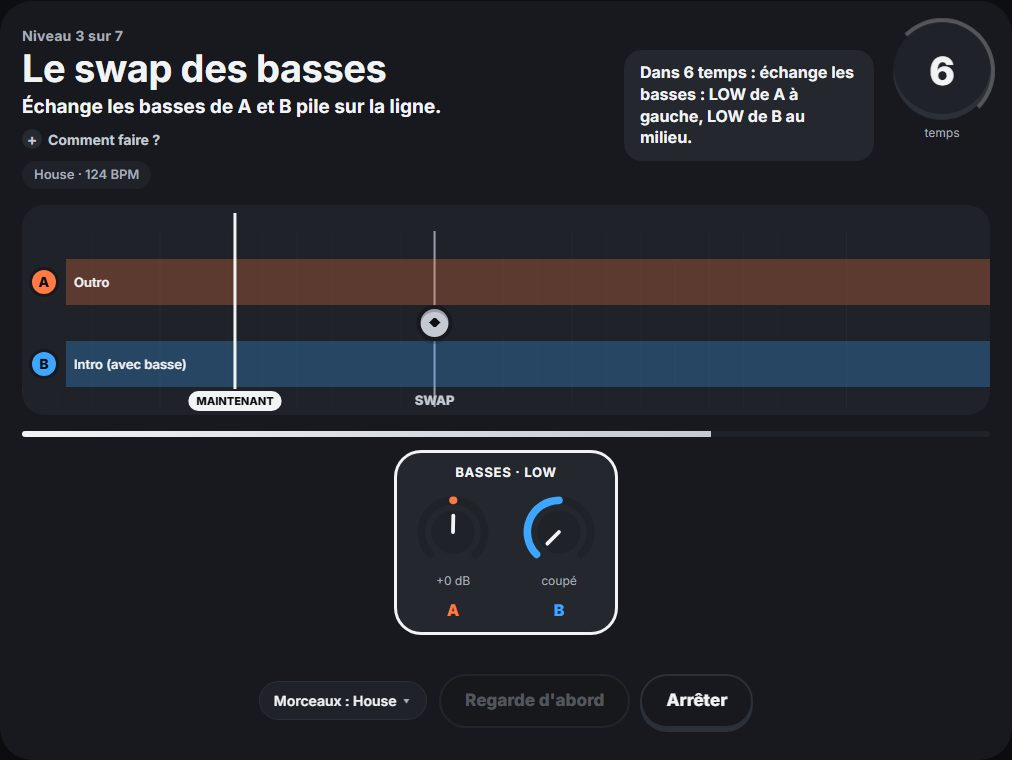
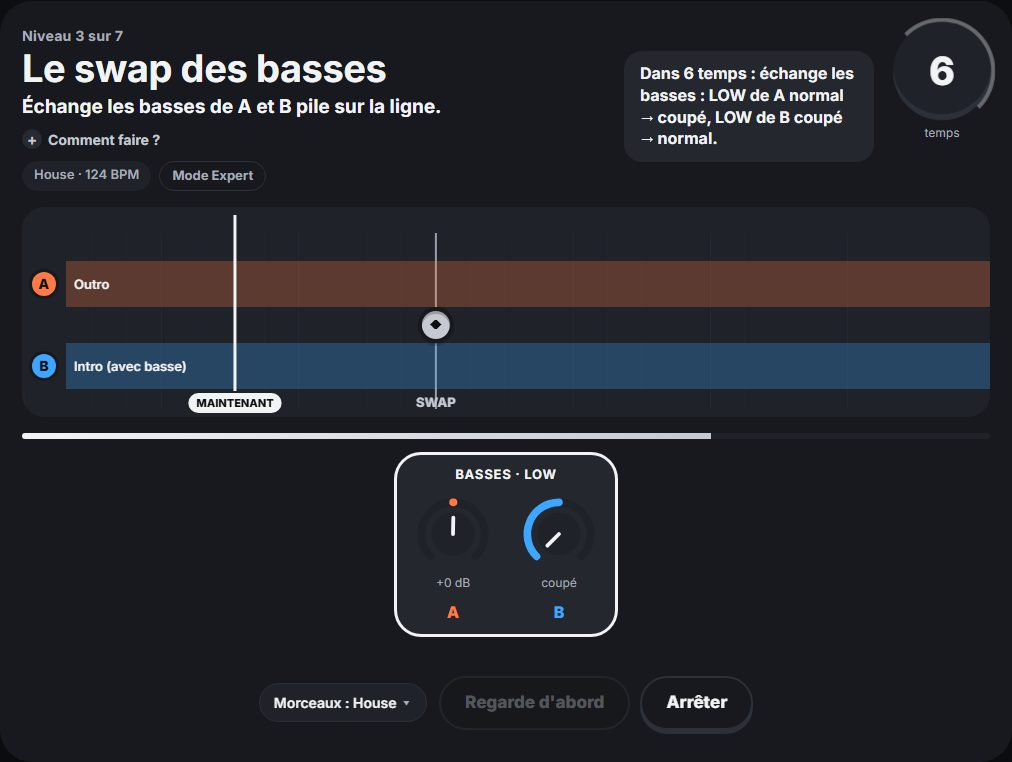
Nouveau nom : DJingo ; Mode Expert sans repère même avant de jouer
Le site s'appelle maintenant DJingo partout où on le voit (pages, guide, rapport des testeurs,
présentation, fiche des testeurs). Les réglages et la progression enregistrés ne changent pas.
Mode Expert : plus de repère « LANCE B » sur la piste avant de jouer, ligne du record simplifiée.

diff --git a/presentation.html b/presentation.html
@@ -3,9 +3,9 @@
 <head>
 <meta charset="utf-8">
 <meta name="viewport" content="width=device-width, initial-scale=1, viewport-fit=cover">
-<title>Coach DJ · Apprends à mixer sur ta DDJ-FLX4</title>
-<meta name="description" content="Tu as une DDJ-FLX4 et tu n'y connais rien ? Coach DJ t'apprend les transitions geste par geste : le site écoute ta table et te note au temps près.">
-<meta property="og:title" content="Coach DJ · Apprends à mixer sur ta DDJ-FLX4">
+<title>DJingo · Apprends à mixer sur ta DDJ-FLX4</title>
+<meta name="description" content="Tu as une DDJ-FLX4 et tu n'y connais rien ? DJingo t'apprend les transitions geste par geste : le site écoute ta table et te note au temps près.">
+<meta property="og:title" content="DJingo · Apprends à mixer sur ta DDJ-FLX4">
 <meta property="og:description" content="Le site écoute ta table et te note au temps près. En deux semaines, tes premières vraies transitions propres.">
 <meta property="og:image" content="https://coach-bass-swap.vercel.app/img/apprendre.jpg">
 <meta property="og:type" content="website">
@@ -18,7 +18,7 @@
 <body class="pres">
 <div class="wrap">
   <header class="top">
-    <a class="brand" href="presentation.html"><span class="disc" aria-hidden="true"></span><div><div class="brand-name">Coach DJ</div><div class="brand-sub">Les transitions, un geste à la fois</div></div></a>
+    <a class="brand" href="presentation.html"><span class="disc" aria-hidden="true"></span><div><div class="brand-name">DJingo</div><div class="brand-sub">Les transitions, un geste à la fois</div></div></a>
     <a class="ghost" href="index.html">Ouvrir le site</a>
   </header>
 
@@ -77,7 +77,7 @@
       <details><summary>C'est gratuit ?</summary><p>Oui, pendant la phase de test.</p></details>
       <details><summary>Faut-il créer un compte ?</summary><p>Non. Ta progression reste dans ton navigateur, sur ton ordinateur : elle n'est envoyée nulle part.</p></details>
       <details><summary>Avec quelle musique ?</summary><p>Les niveaux utilisent des morceaux fabriqués par le site, faits pour s'enchaîner. Ensuite, « Passer au vrai » te fait travailler avec ta propre musique dans rekordbox.</p></details>
-      <details><summary>Ça remplace rekordbox ?</summary><p>Non. Coach DJ t'apprend les gestes ; rekordbox reste le logiciel avec lequel tu mixes pour de vrai.</p></details>
+      <details><summary>Ça remplace rekordbox ?</summary><p>Non. DJingo t'apprend les gestes ; rekordbox reste le logiciel avec lequel tu mixes pour de vrai.</p></details>
       <details><summary>Et si j'ai une autre table ?</summary><p>Le site est réglé pour la DDJ-FLX4. Si tu branches une autre table, il te propose de la régler pas à pas : il te montre chaque commande, tu la bouges, il la reconnaît. Une commande que ta table n'a pas se fait à la souris. Seule la DDJ-FLX4 a été prévue au départ : dis-nous si quelque chose ne marche pas avec la tienne.</p></details>
       <details><summary>Sur téléphone ?</summary><p>Pas pour l'instant : le site est prévu pour un ordinateur avec Chrome ou Edge, la table branchée en USB.</p></details>
     </div>

diff --git a/tests/avis.spec.js b/tests/avis.spec.js
@@ -86,7 +86,7 @@ test.describe('Le rapport', () => {
       'coach-journal': S({ debut: '2026-10-10', jours: ['2026-10-10'], secs: 600, parties: [{ c: 1, n: 0, e: 2, k: '', d: '2026-10-10' }, { c: 1, n: 0, e: 3, k: 'var', d: '2026-10-10' }, { c: 1, n: 1, e: 1, k: '', d: '2026-10-10' }],
         clair: { '1-0': 'oui', '1-1': 'non' }, avis: [{ d: '2026-10-10', ecran: 'Accueil', bloque: 'Le mot outro', plu: 'Les étoiles', note: 4 }], erreurs: [] }) } });
     const r = await rapport(page);
-    expect(r).toMatch(/^Rapport Coach DJ du \d{4}-\d\d-\d\d\n/);
+    expect(r).toMatch(/^Rapport DJingo du \d{4}-\d\d-\d\d\n/);
     expect(r).toContain('Parcours : Parcours « Je débute » · sans table (souris)');
     expect(r).toContain('Temps sur le site : 10 min, sur 2 jours (première visite le 2026-10-10)');
     expect(r).toContain('Étoiles : chapitre 1 4/21, chapitre 2 0/21, chapitre 3 0/12, chapitre 4 0/12 · 45 XP · badges 2/13 · quiz 1/25');
@@ -101,14 +101,14 @@ test.describe('Le rapport', () => {
     await page.locator('#avisBtn').click();
     await page.locator('#avCopy').click();
     await expect(page.locator('#avMsg')).toContainText('Rapport copié');
-    expect(await page.evaluate(() => navigator.clipboard.readText())).toContain('Rapport Coach DJ du');
+    expect(await page.evaluate(() => navigator.clipboard.readText())).toContain('Rapport DJingo du');
   });
   test('sans presse-papiers, le rapport s\'affiche pour être copié à la main', async ({ page }) => {
     await ouvrir(page, { avant: 'Object.defineProperty(navigator, "clipboard", { value: undefined });' });
     await page.locator('#avisBtn').click();
     await page.locator('#avCopy').click();
     await expect(page.locator('#avText')).toBeVisible();
-    await expect(page.locator('#avText')).toHaveValue(/^Rapport Coach DJ du/);
+    await expect(page.locator('#avText')).toHaveValue(/^Rapport DJingo du/);
   });
   test('un journal abîmé ne bloque pas la page et repart proprement', async ({ page }) => {
     const erreurs = await ouvrir(page, { stockage: { 'coach-journal': S({ debut: 5, jours: 'x', secs: -3, parties: [{ c: 9, n: 0, e: 2 }, { c: 1, n: 0, e: 2 }, null], clair: { '1-0': 'peut-être', '2-3': 'oui' }, avis: [{ d: '2026-10-10', note: 9, bloque: 42 }] }) } });
@@ -148,7 +148,7 @@ test.describe('Fiche des testeurs', () => {
   test('la page s\'ouvre et mène au site', async ({ page }) => {
     const erreurs = []; page.on('pageerror', e => erreurs.push(String(e)));
     await page.goto('/testeurs.html');
-    await expect(page.locator('h1')).toHaveText('Tester Coach DJ');
+    await expect(page.locator('h1')).toHaveText('Tester DJingo');
     await page.locator('a.cta').click();
     await expect(page.locator('#vHome')).toBeVisible();
     expect(erreurs).toEqual([]);

diff --git a/js/piste.js b/js/piste.js
@@ -43,16 +43,16 @@ function drawHighway(b){
   } else {
   block(16, 32, yA, COL.a, true, 'Corps'); block(32, 128, yA, COL.a, false, 'Outro');
   if (L !== null){ if (l.bCue >= 64){ block(L, L + 160, yB, COL.b, true, 'Drop'); } else if (l.bCue){ block(L, L + 64 - l.bCue, yB, COL.b, false, 'Fin d\'intro'); block(L + 64 - l.bCue, L + 160, yB, COL.b, true, 'Drop'); } else { block(L, L + 64, yB, COL.b, false, l.bBass ? 'Intro (avec basse)' : 'Intro'); block(L + 64, L + 160, yB, COL.b, true, 'Drop'); } }
-  else if (!(run && run.expert)){ const a = X(l.launchBeat); g.setLineDash([6, 5]); g.strokeStyle = COL.b; g.lineWidth = 2; rr(g, a + 1, yB, X(l.launchBeat + 64) - a - 2, H, H / 2); g.stroke(); g.setLineDash([]);
+  else if (!(run ? run.expert : expertOn())){ const a = X(l.launchBeat); g.setLineDash([6, 5]); g.strokeStyle = COL.b; g.lineWidth = 2; rr(g, a + 1, yB, X(l.launchBeat + 64) - a - 2, H, H / 2); g.stroke(); g.setLineDash([]);
     if (a < w - 60){ g.fillStyle = COL.b; g.font = '600 13px ' + COL.font; g.textAlign = 'left'; g.fillText('B partira ici', Math.max(a + 30, 8), yB + 28); } }
   }
   // gestes à faire
   // Brouillard « à l'oreille » ; en Expert, pas de brouillard mais aucun repère ni « B partira ici »
-  const fog = run && run.ear, hide = fog || !!(run && run.expert);
+  const fog = run && run.ear, hide = fog || (run ? !!run.expert : expertOn());
   if (fog){ g.save(); const gr = g.createLinearGradient(hitX + 6, 0, hitX + 90, 0); gr.addColorStop(0, hexA(COL['panel-2'], 0)); gr.addColorStop(1, hexA(COL['panel-2'], .93)); g.fillStyle = gr; g.fillRect(hitX + 6, 0, w, h);
     g.font = '700 13px ' + COL.font; const tx = 'Repères masqués : écoute', tw = g.measureText(tx).width + 24; g.fillStyle = COL.fg; rr(g, w - tw - 12, 12, tw, 26, 13); g.fill(); g.fillStyle = COL['on-fg']; g.textAlign = 'left'; g.fillText(tx, w - tw, 30); g.restore(); }
   for (const [v, lab, lane] of LESSONS[li].targets){
-    if (hide && !(run.status[lab])) continue;
+    if (hide && !(run && run.status[lab])) continue;
     if (l.wave && !(run && run.demo)) continue;
     const x = X(v); if (x < -80 || x > w + 80) continue;
     const st = run ? run.status[lab] : null, col = st === 'ok' ? COL.ok : st === 'mid' ? COL.mid : st === 'bad' || st === 'late' ? COL.bad : COL.xp;

diff --git a/index.html b/index.html
@@ -3,7 +3,7 @@
 <head>
 <meta charset="utf-8">
 <meta name="viewport" content="width=device-width, initial-scale=1, viewport-fit=cover">
-<title>Coach DJ</title>
+<title>DJingo</title>
 <meta name="theme-color" content="#0e0f12">
 <link rel="preconnect" href="https://fonts.googleapis.com">
 <link rel="preconnect" href="https://fonts.gstatic.com" crossorigin>
@@ -54,7 +54,7 @@
 <div class="quiz" id="avis" hidden role="dialog" aria-modal="true" aria-labelledby="avTitle">
   <div class="qcard">
     <button type="button" class="rclose" id="avClose" aria-label="Fermer">×</button>
-    <span class="lnum">Coach DJ est en test</span>
+    <span class="lnum">DJingo est en test</span>
     <h2 id="avTitle">Ton avis</h2>
     <label class="avq">Qu'est-ce qui t'a bloqué ou gêné ?<textarea id="avBloque" rows="3" maxlength="1000"></textarea></label>
     <label class="avq">Qu'est-ce qui t'a plu ?<textarea id="avPlu" rows="3" maxlength="1000"></textarea></label>
@@ -82,7 +82,7 @@
 </div>
 <div class="wrap">
   <header class="top">
-    <a class="brand" href="#accueil" aria-label="Coach DJ, retour à l'accueil"><span class="disc" aria-hidden="true"></span><div><div class="brand-name">Coach DJ</div><div class="brand-sub">Les transitions, un geste à la fois</div></div></a>
+    <a class="brand" href="#accueil" aria-label="DJingo, retour à l'accueil"><span class="disc" aria-hidden="true"></span><div><div class="brand-name">DJingo</div><div class="brand-sub">Les transitions, un geste à la fois</div></div></a>
     <div class="hud">
       <a class="chip lvlchip" href="#progres" title="Mes progrès : niveau, étoiles, badges"><span class="lvl" id="lvl">Niv. 1</span><span class="xpbar"><i id="xpFill" style="width:0"></i></span><span class="num" id="xpTxt">0 XP</span><span class="star" aria-hidden="true">★</span><span class="num" id="starTot">0/12</span></a>
       <a class="chip status" id="midiPill" href="#table" title="Ma table : le schéma et les réglages"><i></i><span>Table…</span></a>

diff --git a/js/guide.js b/js/guide.js
@@ -5,7 +5,7 @@
    Le guide ne parle que de la musique (compter, parties d'un morceau). Chaque bouton de la table est présenté par
    une fiche, au moment où un niveau s'en sert pour la première fois (lot 18). */
 const ONB = [
-  { title: 'Bienvenue dans Coach DJ', text: 'Une transition, c\'est passer d\'un morceau à l\'autre sans que la piste de danse s\'arrête. Ici, tu l\'apprends geste par geste, sur ta table. D\'abord deux choses sur la musique : comment la compter, et comment un morceau est construit. Les boutons de ta table te seront présentés au moment de t\'en servir.', cta: 'C\'est parti' },
+  { title: 'Bienvenue sur DJingo', text: 'Une transition, c\'est passer d\'un morceau à l\'autre sans que la piste de danse s\'arrête. Ici, tu l\'apprends geste par geste, sur ta table. D\'abord deux choses sur la musique : comment la compter, et comment un morceau est construit. Les boutons de ta table te seront présentés au moment de t\'en servir.', cta: 'C\'est parti' },
   { title: 'Compter en phrases', text: 'Chaque coup de grosse caisse est un temps. 4 temps font une mesure, 8 mesures font une phrase de 32 temps. La musique change toujours au début d\'une phrase : c\'est là qu\'on fait les transitions. Suis la grille avec la musique.', phrase: true },
   { title: "Les parties d'un morceau", text: 'Un morceau se découpe en parties de quelques phrases. Dans les niveaux, elles portent ces noms et ont ces couleurs sur la piste.', parts: true },
   { title: 'Tu es prêt', text: 'Commence par le niveau 1. Avant chaque niveau, le site te montre la position de départ de ta table et les gestes à faire. Si tu hésites, « Regarde d\'abord » te montre le geste parfait.', cta: 'Commencer le niveau 1' }

diff --git a/js/niveaux.js b/js/niveaux.js
@@ -471,7 +471,7 @@ function finish(){
   for (let i = 0; i < 3; i++){ const sp = document.createElement('span'); sp.textContent = '★'; if (i < st) sp.className = 'on'; sp.style.animationDelay = (i * .18) + 's'; rs.appendChild(sp); }
   $('rTitle').textContent = xr ? (st === 3 ? 'Expert : niveau pro !' : st === 2 ? 'Expert : bien, encore un peu de précision.' : 'Expert : pas encore. Écoute, compte, anticipe.')
     : (r.ch > 1 ? `Chapitre ${r.ch} : ` : '') + (st === 3 ? 'Parfait, transition de pro !' : st === 2 ? 'Presque ! Un détail à régler.' : 'Pas encore. Lis le conseil et rejoue.');
-  const gained = (bank[li] - before) * XP_PER[r.ch]; $('rGain').textContent = (xr ? xr.txt + ' · ' : '') + (gained > 0 ? `+${gained} XP` : st === 3 ? 'Score maximum déjà atteint' : `Record : ${'★'.repeat(bank[li])}`) + (!wasOpen && ch2Unlocked() ? ' · Chapitres 2 et 4 débloqués !' : '') + (!was3 && ch3Unlocked() ? ' · Chapitre 3 débloqué !' : '');
+  const gained = (bank[li] - before) * XP_PER[r.ch]; $('rGain').textContent = (xr ? xr.txt + (gained > 0 ? ` · +${gained} XP` : '') : gained > 0 ? `+${gained} XP` : st === 3 ? 'Score maximum déjà atteint' : `Record : ${'★'.repeat(bank[li])}`) + (!wasOpen && ch2Unlocked() ? ' · Chapitres 2 et 4 débloqués !' : '') + (!was3 && ch3Unlocked() ? ' · Chapitre 3 débloqué !' : '');
   const ul = $('rDetails'); ul.innerHTML = ''; for (const [lvl, txt] of items){ const x = document.createElement('li'); x.className = lvl; x.textContent = txt; ul.appendChild(x); }
   $('next').hidden = li >= LESSONS.length - 1;
   $('result').hidden = false; $('retry').focus({ preventScroll: true });

diff --git a/js/avis.js b/js/avis.js
@@ -48,7 +48,7 @@ function navName(){
 }
 function avisRapport(){
   const L = [], lv = (c, n) => lessonsOf(c)[n], max = BASE_LESSONS.length * 3;
-  L.push(`Rapport Coach DJ du ${dayKey()}`);
+  L.push(`Rapport DJingo du ${dayKey()}`);
   L.push(`Parcours : ${PARCOURS[parcours] ? PARCOURS[parcours].name : 'pas encore choisi'} · ${midiCount > 0 ? 'table branchée : ' + midiNames.join(', ') + (tableCfg ? ' (réglée pas à pas)' : tableOn() ? '' : ' (pas encore réglée)') : 'sans table (souris)'} · ${navName()}`);
   L.push(`Temps sur le site : ${Math.round(jr.secs / 60)} min, sur ${plur(jr.jours.length, 'jour', 'jours')} (première visite le ${jr.debut})`);
   L.push(`Étoiles : chapitre 1 ${sumStars(stars)}/${max}, chapitre 2 ${sumStars(ch2Stars)}/${max}, chapitre 3 ${sumStars(ch3Stars)}/${CH3_LESSONS.length * 3}, chapitre 4 ${sumStars(ch4Stars)}/${CH4_LESSONS.length * 3} · ${$('xpTxt').textContent} · badges ${badgesWon.length}/${BADGES.length} · quiz ${quizOk.length}/${QUIZ.length}`);
@@ -94,7 +94,7 @@ function avisCopy(){
 }
 function avisMail(){
   let t = avisRapport(); if (t.length > 1800) t = t.slice(0, 1800) + '\n(rapport coupé : utilise plutôt « Copier mon rapport »)';
-  location.href = 'mailto:' + AVIS_MAIL + '?subject=' + encodeURIComponent('Rapport Coach DJ') + '&body=' + encodeURIComponent(t);
+  location.href = 'mailto:' + AVIS_MAIL + '?subject=' + encodeURIComponent('Rapport DJingo') + '&body=' + encodeURIComponent(t);
 }
 // Remise à zéro : tout ce que le site a enregistré, sauf les réglages de la table (et le nom d'une autre table réglée pas à pas)
 function avisReset(){

diff --git a/testeurs.html b/testeurs.html
@@ -3,7 +3,7 @@
 <head>
 <meta charset="utf-8">
 <meta name="viewport" content="width=device-width, initial-scale=1, viewport-fit=cover">
-<title>Tester Coach DJ</title>
+<title>Tester DJingo</title>
 <meta name="theme-color" content="#0e0f12">
 <link rel="preconnect" href="https://fonts.googleapis.com">
 <link rel="preconnect" href="https://fonts.gstatic.com" crossorigin>
@@ -13,12 +13,12 @@
 <body>
 <div class="wrap">
   <header class="top">
-    <a class="brand" href="index.html#accueil"><span class="disc" aria-hidden="true"></span><div><div class="brand-name">Coach DJ</div><div class="brand-sub">Les transitions, un geste à la fois</div></div></a>
+    <a class="brand" href="index.html#accueil"><span class="disc" aria-hidden="true"></span><div><div class="brand-name">DJingo</div><div class="brand-sub">Les transitions, un geste à la fois</div></div></a>
   </header>
   <section class="page">
     <span class="lnum">Merci de ton aide</span>
-    <h1>Tester Coach DJ</h1>
-    <p class="lead">Coach DJ apprend à mixer aux débutants, sur une Pioneer DDJ-FLX4. Tu vas l'essayer pendant 20 à 30 minutes et dire ce qui t'a bloqué.</p>
+    <h1>Tester DJingo</h1>
+    <p class="lead">DJingo apprend à mixer aux débutants, sur une Pioneer DDJ-FLX4. Tu vas l'essayer pendant 20 à 30 minutes et dire ce qui t'a bloqué.</p>
 
     <h2 class="sub">Ce qu'il te faut</h2>
     <ul class="howlist">

diff --git a/tests/site.spec.js b/tests/site.spec.js
@@ -73,7 +73,7 @@ test.describe('Première visite et parties (anciens play.py et play2.py)', () =>
   test('le guide s\'ouvre, donne du son, puis laisse jouer et rejouer', async ({ page }) => {
     const erreurs = await ouvrir(page, { stockage: { 'coach-guide-vu': null } });
     await expect(page.locator('#onb')).toBeVisible();
-    await expect(page.locator('#onbTitle')).toHaveText('Bienvenue dans Coach DJ');
+    await expect(page.locator('#onbTitle')).toHaveText('Bienvenue sur DJingo');
     await page.locator('#onbNext').click();
     await expect(page.locator('#onbTitle')).toHaveText('Compter en phrases', { timeout: 60000 });
     await page.locator('#onbSkip').click();

diff --git a/tests/fiches.spec.js b/tests/fiches.spec.js
@@ -9,7 +9,7 @@ const vues = page => page.evaluate(() => JSON.parse(localStorage.getItem('coach-
 test.describe('Le guide ne parle plus que de la musique', () => {
   test('4 étapes, sans bouton de la table', async ({ page }) => {
     await ouvrir(page);
-    expect(await page.evaluate(() => ONB.map(s => s.title))).toEqual(['Bienvenue dans Coach DJ', 'Compter en phrases', 'Les parties d\'un morceau', 'Tu es prêt']);
+    expect(await page.evaluate(() => ONB.map(s => s.title))).toEqual(['Bienvenue sur DJingo', 'Compter en phrases', 'Les parties d\'un morceau', 'Tu es prêt']);
     expect(await page.evaluate(() => ONB.some(s => s.k))).toBe(false);
   });
 });

diff --git a/coach.html b/coach.html
@@ -3,7 +3,7 @@
 <head>
 <meta charset="utf-8">
 <meta name="viewport" content="width=device-width, initial-scale=1, viewport-fit=cover">
-<title>Coach DJ · mode libre</title>
+<title>DJingo · mode libre</title>
 <!-- Le mode libre est retiré du site : cette page renvoie vers « Passer au vrai ». Son code (import rekordbox, recommandations) sert de base à cette étape ; ?ancien=1 l'affiche encore pour le développement. -->
 <script>if (!/[?&]ancien=1/.test(location.search)) location.replace('index.html#vrai');</script>
 <link rel="preconnect" href="https://fonts.googleapis.com">

diff --git a/playwright.config.js b/playwright.config.js
@@ -1,4 +1,4 @@
-// Tests de non-régression de Coach DJ. Lancer avec : npm test
+// Tests de non-régression de DJingo. Lancer avec : npm test
 const { defineConfig } = require('@playwright/test');
 module.exports = defineConfig({
   testDir: 'tests',
